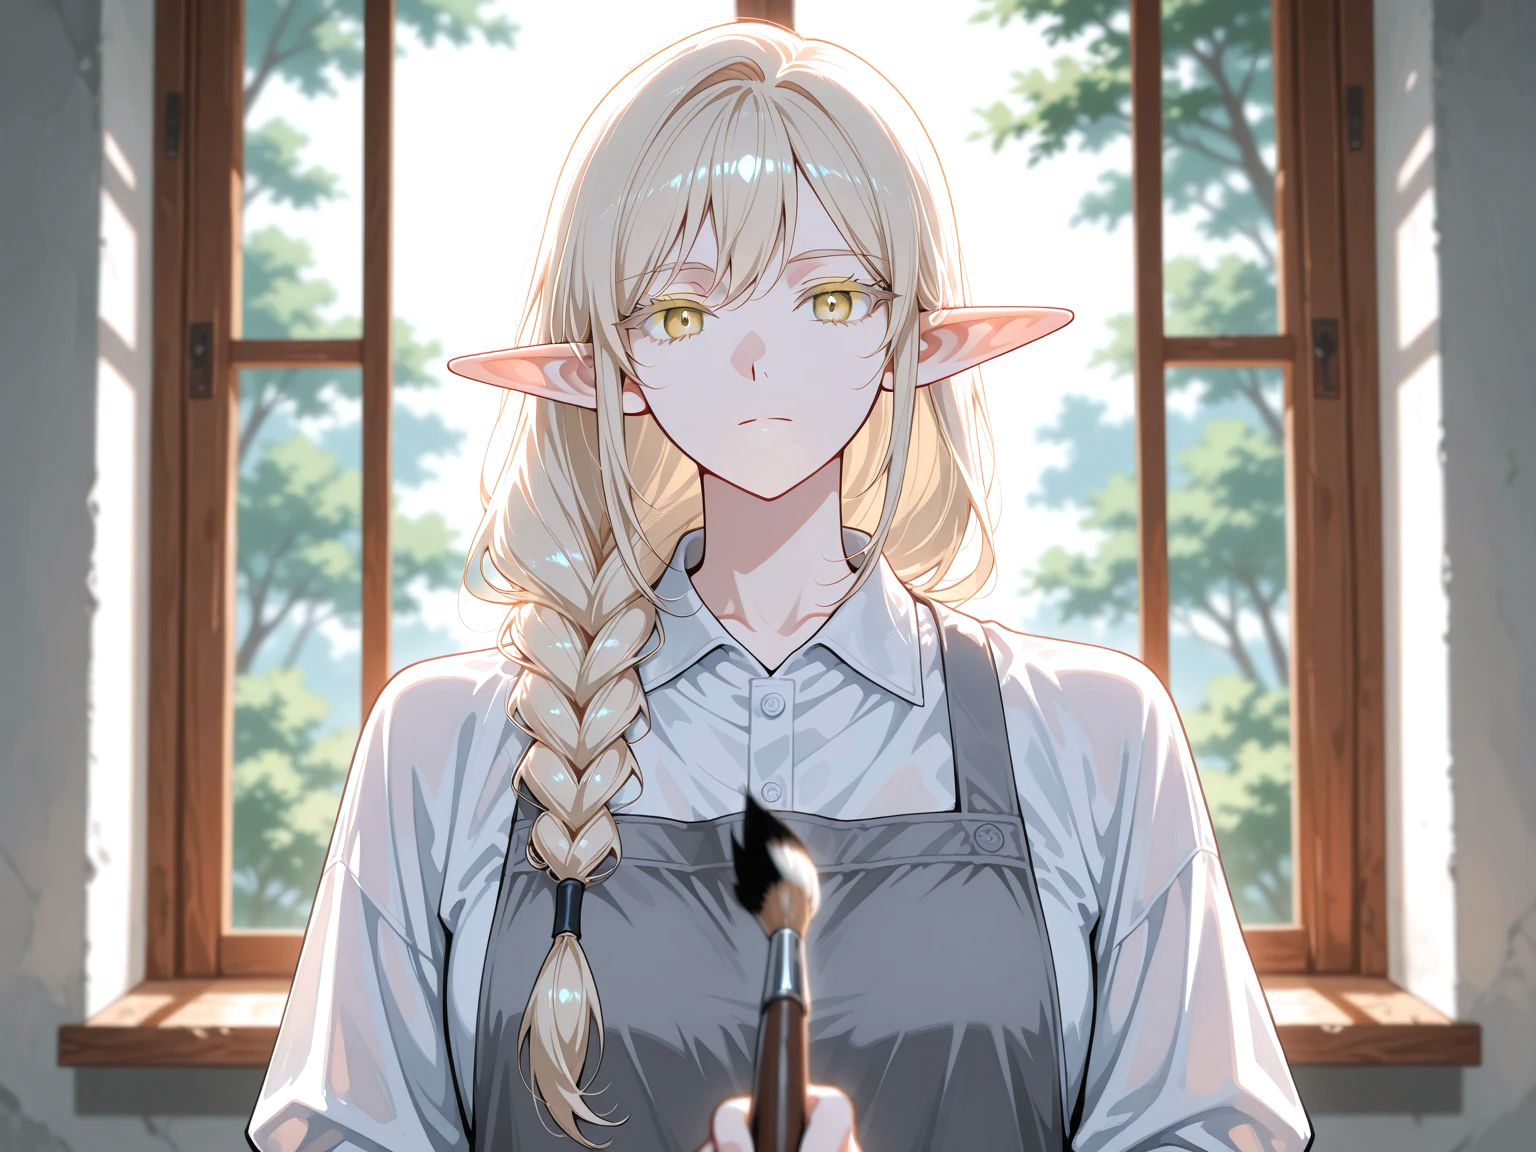
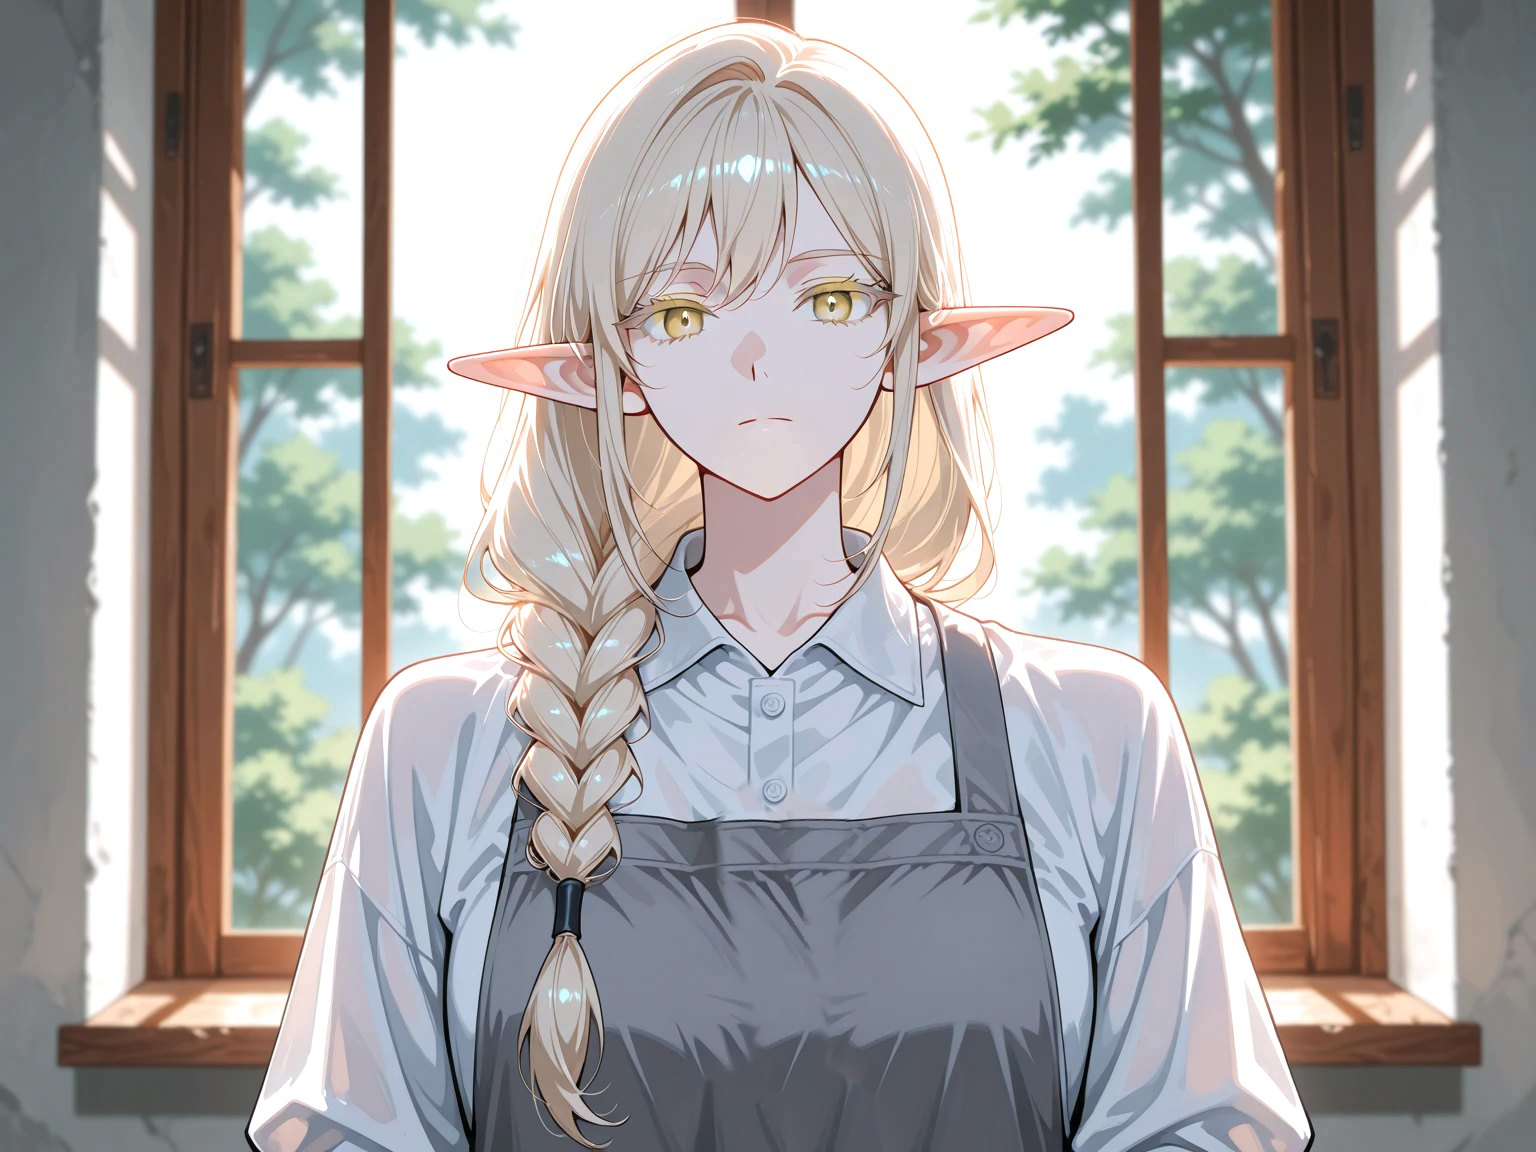
idel: 01번 그림의 아래에서 들이민 붓·손 지움(입장 3장·첫 화면·스케치북·카드 사진) · 01 설명 문구 · 캐시 번호
Claude-Session: https://claude.ai/code/session_01Mhwgej8dFk2Hqot6j3UEJ4

Changed region(s): [[0.4375, 0.6875, 0.5625, 1.0]]

diff --git a/idel/js/site.js b/idel/js/site.js
@@ -88,14 +88,14 @@
     for(var k=0;k<n&&k<L.length;k++){
       var s=L[k], today=(k===n-1&&S.satToday), pk=S.pal[k]&&S.pig(S.pal[k].id);
       out+='<article class="sit rv in'+(today?' today':'')+(k<cut?' old':'')+'">'+
-        '<div class="sit-ph"><img src="assets/t/'+s.img+'.jpg" alt="'+esc(s.stage)+' 회차의 이델" loading="lazy"></div>'+
+        '<div class="sit-ph"><img src="assets/t/'+s.img+'.jpg?v=2" alt="'+esc(s.stage)+' 회차의 이델" loading="lazy"></div>'+
         '<div class="sit-meta"><span class="sit-no">No.'+pad(k+1)+' · 1127. '+esc(s.d)+' ('+esc(s.w)+')</span><span class="sit-stage">'+(pk?'<i class="sw-dot" style="--c:'+pk.hex+'"></i>'+esc(pk.name)+' · ':'')+esc(s.stage)+'</span></div>'+
         '<p class="body">'+esc(s.text)+'</p>'+
         '<p class="hand">'+esc(s.note.replace('{name}',nmv))+'</p>'+(today?palBlock(k):'')+'</article>';
     }
     if(n<12&&L[n]){
       var nx=L[n];
-      out+='<article class="sit lock rv in"><div class="sit-ph"><img src="assets/t/'+nx.img+'.jpg" alt="" loading="lazy"></div>'+
+      out+='<article class="sit lock rv in"><div class="sit-ph"><img src="assets/t/'+nx.img+'.jpg?v=2" alt="" loading="lazy"></div>'+
         '<div class="sit-meta"><span class="sit-no">No.'+pad(n+1)+' · 1127. '+esc(nx.d)+' ('+esc(nx.w)+')</span><span class="sit-stage">아직 마르지 않음</span></div>'+
         '<p class="body sm">'+(S.satToday||n===0?'다시 오는 날 앉으면 이 회차가 열리고, 캔버스가 한 단계 마른다.':'다시 들어와 앉으면 이 회차가 열린다.')+'</p></article>';
     }
@@ -170,7 +170,7 @@
     G.forEach(function(it){
       var ok=unlocked(it); if(ok){c++;shown.push(it);}
       out+='<button type="button" class="g'+(ok?'':' locked')+'" data-k="'+it.k+'"'+(ok?' aria-label="'+esc(it.cap)+' — 크게 보기"':' aria-label="아직 열리지 않은 장면"')+'>'+
-        '<img src="assets/t/'+it.k+'.jpg" alt="" loading="lazy"><span class="gn">'+(ok?'No.'+it.k:'No.'+it.k+' · ?')+'</span></button>';
+        '<img src="assets/t/'+it.k+'.jpg?v=2" alt="" loading="lazy"><span class="gn">'+(ok?'No.'+it.k:'No.'+it.k+' · ?')+'</span></button>';
     });
     $('#gal').innerHTML=out; $('#galCount').textContent=c+' / '+G.length;
   }
@@ -210,7 +210,7 @@
   function setLb(){
     var it=shown[lbI]; if(!it)return;
     lbImg.style.opacity=0;
-    var im=new Image(); im.onload=function(){lbImg.src=im.src;lbImg.alt=it.cap;lbImg.style.opacity=1;}; im.src='assets/g/'+it.k+'.jpg';
+    var im=new Image(); im.onload=function(){lbImg.src=im.src;lbImg.alt=it.cap;lbImg.style.opacity=1;}; im.src='assets/g/'+it.k+'.jpg?v=2';
     lbCap.innerHTML='<span class="lb">No.'+it.k+'</span>'+esc(it.cap);
   }
   function openLb(i){lbI=Math.max(0,i);setLb();if(!openOv)showOv($('#lb'));}

diff --git a/idel/index.html b/idel/index.html
@@ -40,7 +40,7 @@
 
 <!-- 예약제 닫힌 화면 -->
 <div id="lock" role="main">
-  <img class="lk-img" src="assets/h_sketch.jpg" alt="">
+  <img class="lk-img" src="assets/h_sketch.jpg?v=2" alt="">
   <div class="lk-box">
     <p class="lb">NORTH TOWER · BY APPOINTMENT</p>
     <h1 class="lk-h">의뢰서 없이는<br><em>못 앉아.</em></h1>
@@ -52,9 +52,9 @@
 <!-- 입장: 길게 눌러 앉아 있는 동안 밑그림 → 밑칠 → 채색 -->
 <div id="entry" aria-label="화실에 앉기">
   <div class="e-stage">
-    <img class="e-fb e-fb-s" src="assets/h_sketch.jpg" alt="">
-    <img class="e-fb e-fb-u" src="assets/h_under.jpg" alt="">
-    <img class="e-fb e-fb-c" src="assets/h_color.jpg" alt="">
+    <img class="e-fb e-fb-s" src="assets/h_sketch.jpg?v=2" alt="">
+    <img class="e-fb e-fb-u" src="assets/h_under.jpg?v=2" alt="">
+    <img class="e-fb e-fb-c" src="assets/h_color.jpg?v=2" alt="">
     <canvas id="e-gl" aria-hidden="true"></canvas>
   </div>
   <div class="e-veil"></div>
@@ -93,7 +93,7 @@
 
   <main id="pg1">
     <section id="hero" aria-label="첫 화면">
-      <div class="hero-img"><img src="assets/h_color.jpg" alt="해 질 녘 북탑 화실, 붓 꼬리를 든 이델" fetchpriority="high"></div>
+      <div class="hero-img"><img src="assets/h_color.jpg?v=2" alt="해 질 녘 북탑 화실의 이델" fetchpriority="high"></div>
       <div class="hero-veil"></div>
       <div class="hero-num" id="heroNum" aria-hidden="true">12</div>
       <div class="hero-txt">
@@ -365,10 +365,10 @@
 <audio id="bgm" preload="none" loop></audio>
 <audio id="themeA" preload="none"></audio>
 
-<script src="data.js?v=2"></script>
-<script src="js/site.js?v=2"></script>
+<script src="data.js?v=3"></script>
+<script src="js/site.js?v=3"></script>
 <script src="js/extra.js?v=1"></script>
-<script src="js/keepsake.js?v=1"></script>
-<script src="js/entry.js?v=2"></script>
+<script src="js/keepsake.js?v=2"></script>
+<script src="js/entry.js?v=3"></script>
 </body>
 </html>

diff --git a/idel/js/keepsake.js b/idel/js/keepsake.js
@@ -9,7 +9,7 @@ const charIds = Object.keys(characters);
 const BRAND = PAGE.brand;
 const esc = t => String(t).replace(/[&<>"']/g, m => ({ '&':'&amp;', '<':'&lt;', '>':'&gt;', '"':'&quot;', "'":'&#39;' }[m]));
 const HER_LIST = ['03','01','02','04','07','08','10','12','13','14'];
-$('pc-thumbs').innerHTML = '<button type="button" class="kth up" id="btn-upload" aria-label="내 사진 올리기"><span>내 사진<br>올리기</span></button>' + HER_LIST.map(n => `<button type="button" class="kth" data-her="${n}" aria-label="${n}번 사진"><img src="assets/p/s${n}.jpg" alt="" loading="lazy"></button>`).join('');
+$('pc-thumbs').innerHTML = '<button type="button" class="kth up" id="btn-upload" aria-label="내 사진 올리기"><span>내 사진<br>올리기</span></button>' + HER_LIST.map(n => `<button type="button" class="kth" data-her="${n}" aria-label="${n}번 사진"><img src="assets/p/s${n}.jpg?v=2" alt="" loading="lazy"></button>`).join('');
 /* ===== 기념주화 제작소: 코난 기념뱃지 같은 앤티크 메탈 음각 (900px로 그려 선명하게 저장) ===== */
 const cv = $('coin-canvas'), TAU = Math.PI * 2, R = 88; let ctx = cv.getContext('2d'), SCALE = cv.width / 300;
 const METALS = {
@@ -946,7 +946,7 @@ $('booth-style-group').addEventListener('click', e => { const b = e.target.close
 const HER = ['03','01','02','04','07','08','10','12','13','14'];
 function pickHer(n) {
   herSel = n; avatarUpload = false;
-  const img = new Image(); img.onload = () => { avatar = img; avatarId++; drawCoin(); }; img.src = `assets/p/${n}.jpg`;
+  const img = new Image(); img.onload = () => { avatar = img; avatarId++; drawCoin(); }; img.src = `assets/p/${n}.jpg?v=2`;
   document.querySelectorAll('[data-her]').forEach(b => b.classList.toggle('active', b.dataset.her === n)); $('btn-upload').classList.remove('active');
 }
 $('pc-thumbs').addEventListener('click', e => { const b = e.target.closest('[data-her]'); if (b) pickHer(b.dataset.her); });

diff --git a/idel/js/entry.js b/idel/js/entry.js
@@ -97,7 +97,7 @@
       ['s0','s1','s2','so'].forEach(function(n,i){gl.uniform1i(gl.getUniformLocation(pr,n),i);});
       U={p1:gl.getUniformLocation(pr,'p1'),p2:gl.getUniformLocation(pr,'p2'),sc:gl.getUniformLocation(pr,'sc'),of:gl.getUniformLocation(pr,'of')};
     }catch(e){gl=null;return;}
-    Promise.all(['assets/h_sketch.jpg','assets/h_under.jpg','assets/h_color.jpg','assets/h_order.png'].map(load)).then(function(ims){
+    Promise.all(['assets/h_sketch.jpg?v=2','assets/h_under.jpg?v=2','assets/h_color.jpg?v=2','assets/h_order.png'].map(load)).then(function(ims){
       if(!gl)return;
       ims.forEach(function(im,i){tex(i,im);});
       ready=true; fit(); cv.classList.add('ready');

diff --git a/idel/data.js b/idel/data.js
@@ -62,7 +62,7 @@ window.IDEL = {
 
   /* 스케치북 — 17·21은 숨은 장치를 열면 들어온다 */
   gallery: [
-    { k: '01', cap: '붓 꼬리로 당신의 턱을 돌려 고정할 때' },
+    { k: '01', cap: '자세를 고쳐 놓고 당신을 똑바로 볼 때' },
     { k: '02', cap: '혼담을 원하느냐고 물을 때' },
     { k: '03', cap: '움직이지 말라며 노려볼 때' },
     { k: '04', cap: '물건 보듯 내려다볼 때' },
